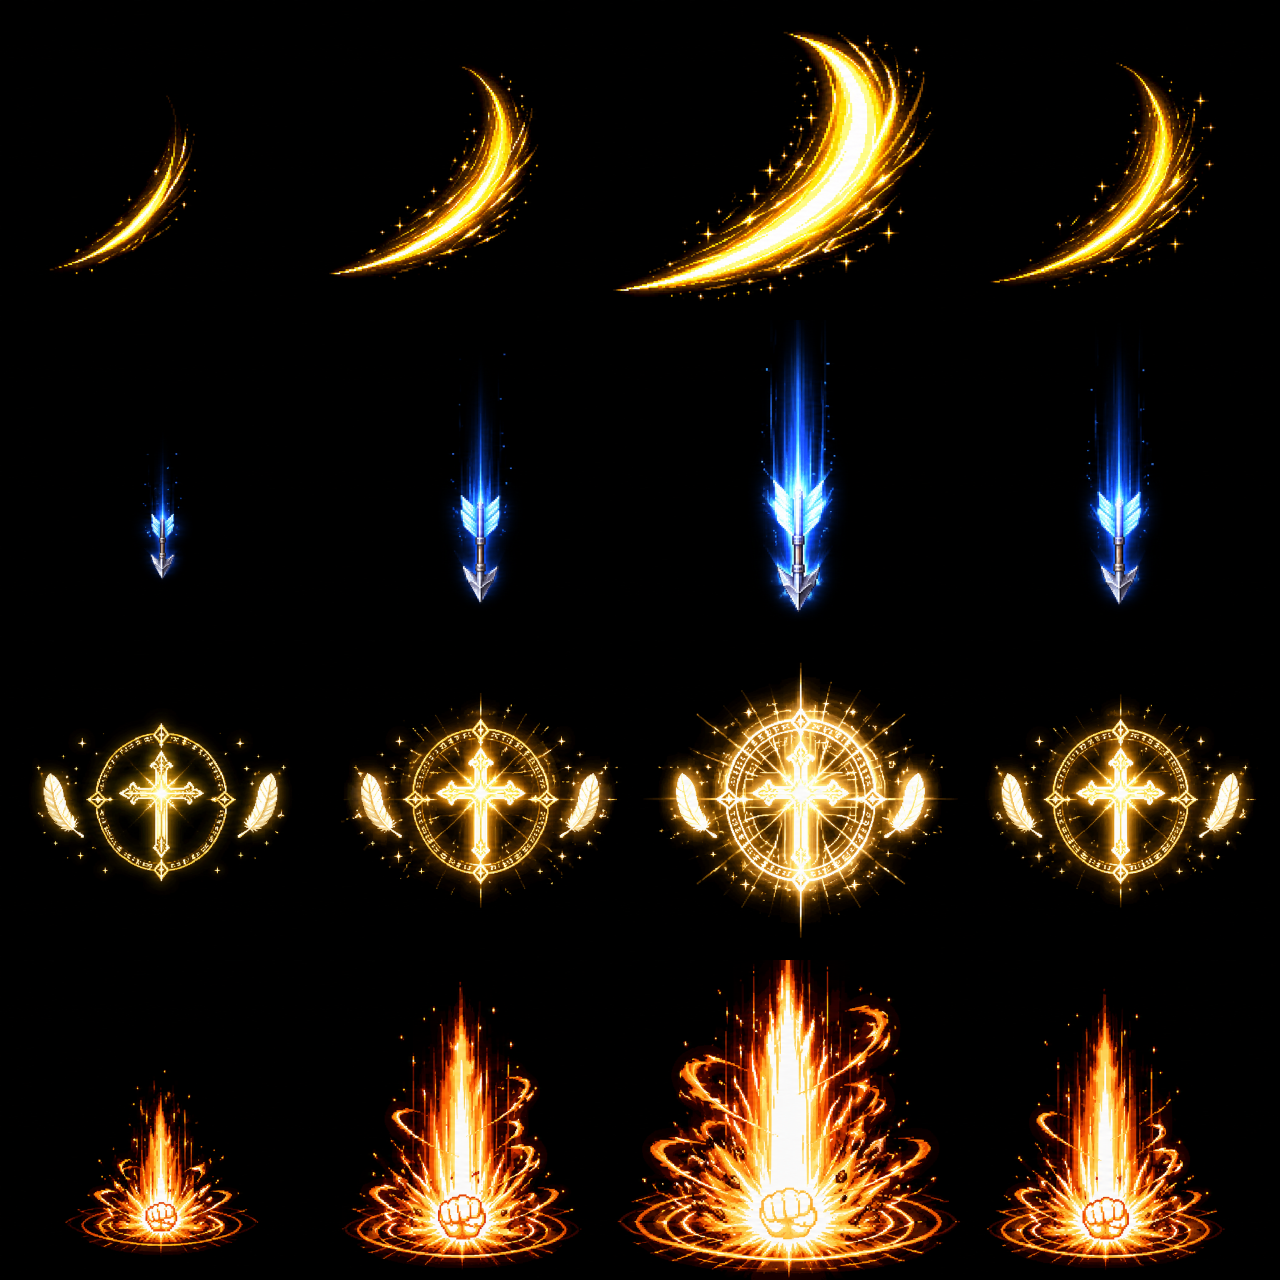
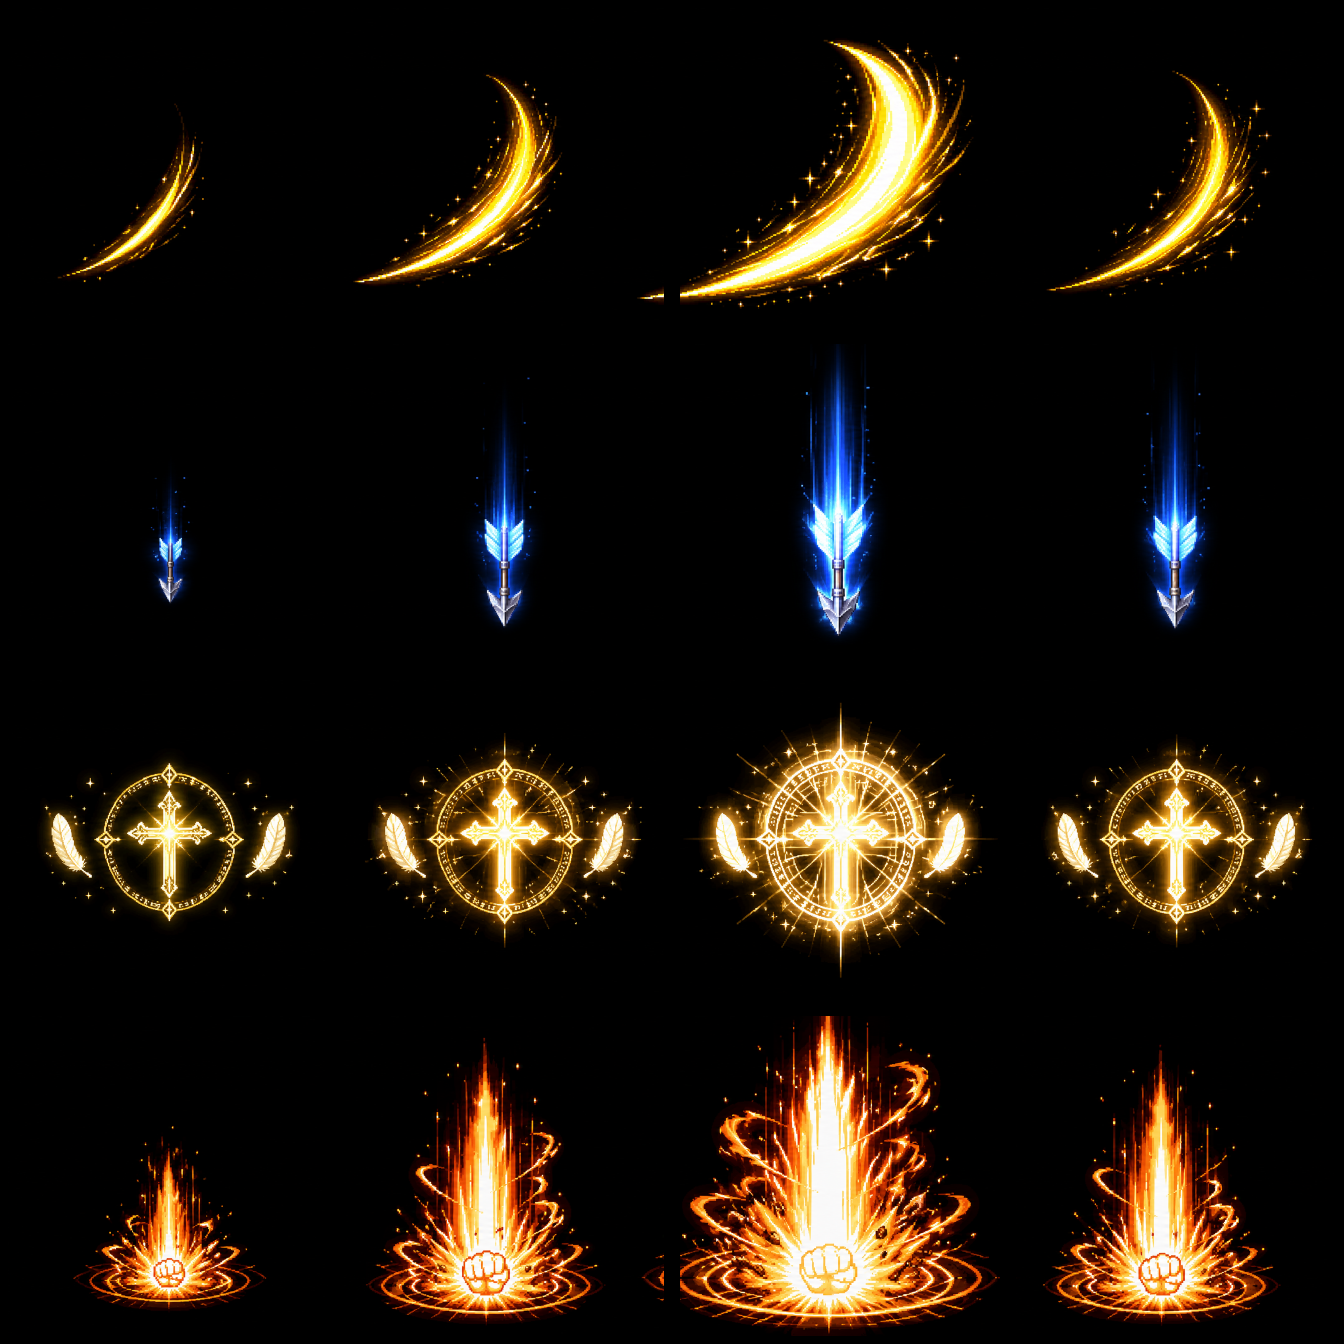
Fix sprite blur + atlas edge-bleed: nearest filtering + padded bomb atlas
The sprite artifacts (blur, edge shimmer/ghosting, seams on the bomb FX) were a
pipeline issue, not source-art quality:
- Textures used Pixi's default 'linear' (bilinear) scaleMode. On pixel art that
  blurs everything, and at atlas frame edges it samples into the neighbouring
  frame -> seams/ghosting (worst on the tightly-packed additive bomb sheet).

Fixes:
- TextureSource.defaultOptions.scaleMode = 'nearest' (main.js) -> crisp pixels,
  no cross-frame bleed. This alone removes ~all of it and sharpens the whole game.
- roundPixels = true on sprite factories (sprites/bosses/bomb FX) -> no subpixel
  shimmer from non-integer positions.
- slice-bombs.mjs now leaves an 8px black gutter between frames (belt-and-braces
  against any edge sampling); bombsfx regenerated (1344x1344).

Determinism test PASS.

diff --git a/src/main.js b/src/main.js
@@ -1,6 +1,6 @@
 // Boot + scene manager. Flow: title -> character select -> game.
 // The canvas is field + sidebar wide; scenes swap on ctx callbacks.
-import { Application } from 'pixi.js';
+import { Application, TextureSource } from 'pixi.js';
 import { loadAtlas } from './engine/atlas.js';
 import { Input } from './engine/input.js';
 import { TitleScene } from './scenes/title.js';
@@ -19,6 +19,11 @@ import { music } from './engine/music.js';
 const APP_W = FIELD_W + SIDEBAR_W;
 
 async function boot() {
+  // Pixel-art game: sample every texture with nearest-neighbour. This keeps
+  // sprites crisp (no bilinear blur) AND removes atlas edge-bleed — bilinear
+  // sampling reaches into neighbouring atlas frames at the edges, which shows
+  // up as seams/ghosting (worst on the tightly-packed additive bomb FX).
+  TextureSource.defaultOptions.scaleMode = 'nearest';
   const app = new Application();
   await app.init({ width: APP_W, height: FIELD_H, background: 0x0a0a12, antialias: false });
   document.getElementById('game').appendChild(app.canvas);

diff --git a/src/render/renderer.js b/src/render/renderer.js
@@ -75,6 +75,7 @@ export class Renderer {
     if (!s) {
       s = new Sprite();
       s.anchor.set(0.5);
+      s.roundPixels = true;   // snap to integer pixels -> no subpixel shimmer
       this.sprites.set(e, s);
       layer.addChild(s);
     }
@@ -111,6 +112,7 @@ export class Renderer {
     if (!frames || !frames.length) return;
     const s = new Sprite(frames[0]);
     s.anchor.set(0.5);
+    s.roundPixels = true;
     s.blendMode = 'add';
     s.position.set(opts.x ?? 0, opts.y ?? 0);
     s.rotation = opts.rot ?? 0;
@@ -473,7 +475,7 @@ export class Renderer {
     for (let i = 0; i < list.length; i++) {
       const b = list[i];
       let s = this.bossSprites[i];
-      if (!s) { s = new Sprite(); s.anchor.set(0.5); this.bossLayer.addChild(s); this.bossSprites[i] = s; }
+      if (!s) { s = new Sprite(); s.anchor.set(0.5); s.roundPixels = true; this.bossLayer.addChild(s); this.bossSprites[i] = s; }
       const key = BOSS_TEX[b.name] ?? 'orcHero';
       const art = this.atlas.bosses?.[key];
       let tex;
